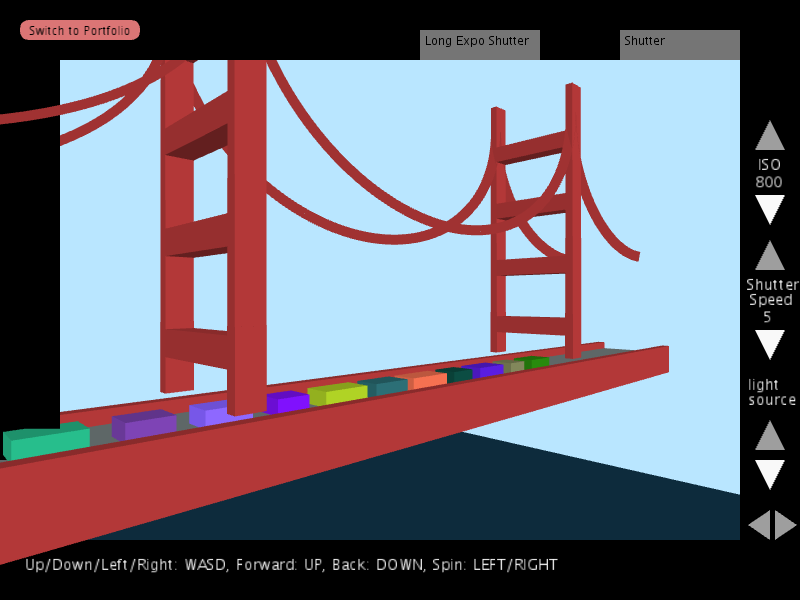
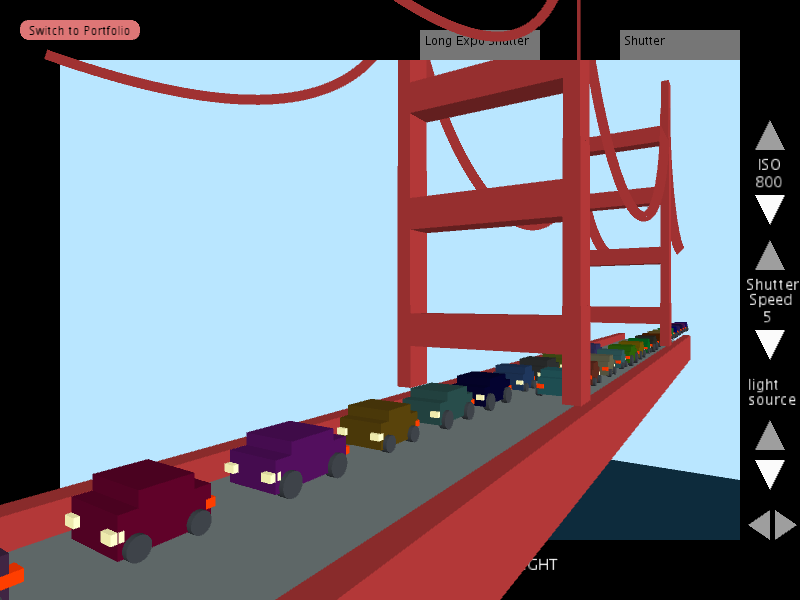
Add top part of the car

diff --git a/FinalProject/src/worldSetting/Car.java b/FinalProject/src/worldSetting/Car.java
@@ -58,7 +58,16 @@ public class Car extends Element{
 	 * Draws physical elements:
 	 */
 	private void drawBase(PApplet g) {
-		// one small base of the car
+		// top of the car
+		float topHeight = 3 * carHeight / 5;
+		g.pushMatrix();
+		g.translate(getX(), getY() - topHeight, getZ());
+		g.noStroke();
+		g.fill(CAR_COLOR[0], CAR_COLOR[1], CAR_COLOR[2]);
+		g.box(3 * carLength / 5, topHeight, carWidth);
+		g.popMatrix();	
+		
+		// bottom of the car
 		g.pushMatrix();
 		g.translate(getX(), getY(), getZ());
 		g.noStroke();
